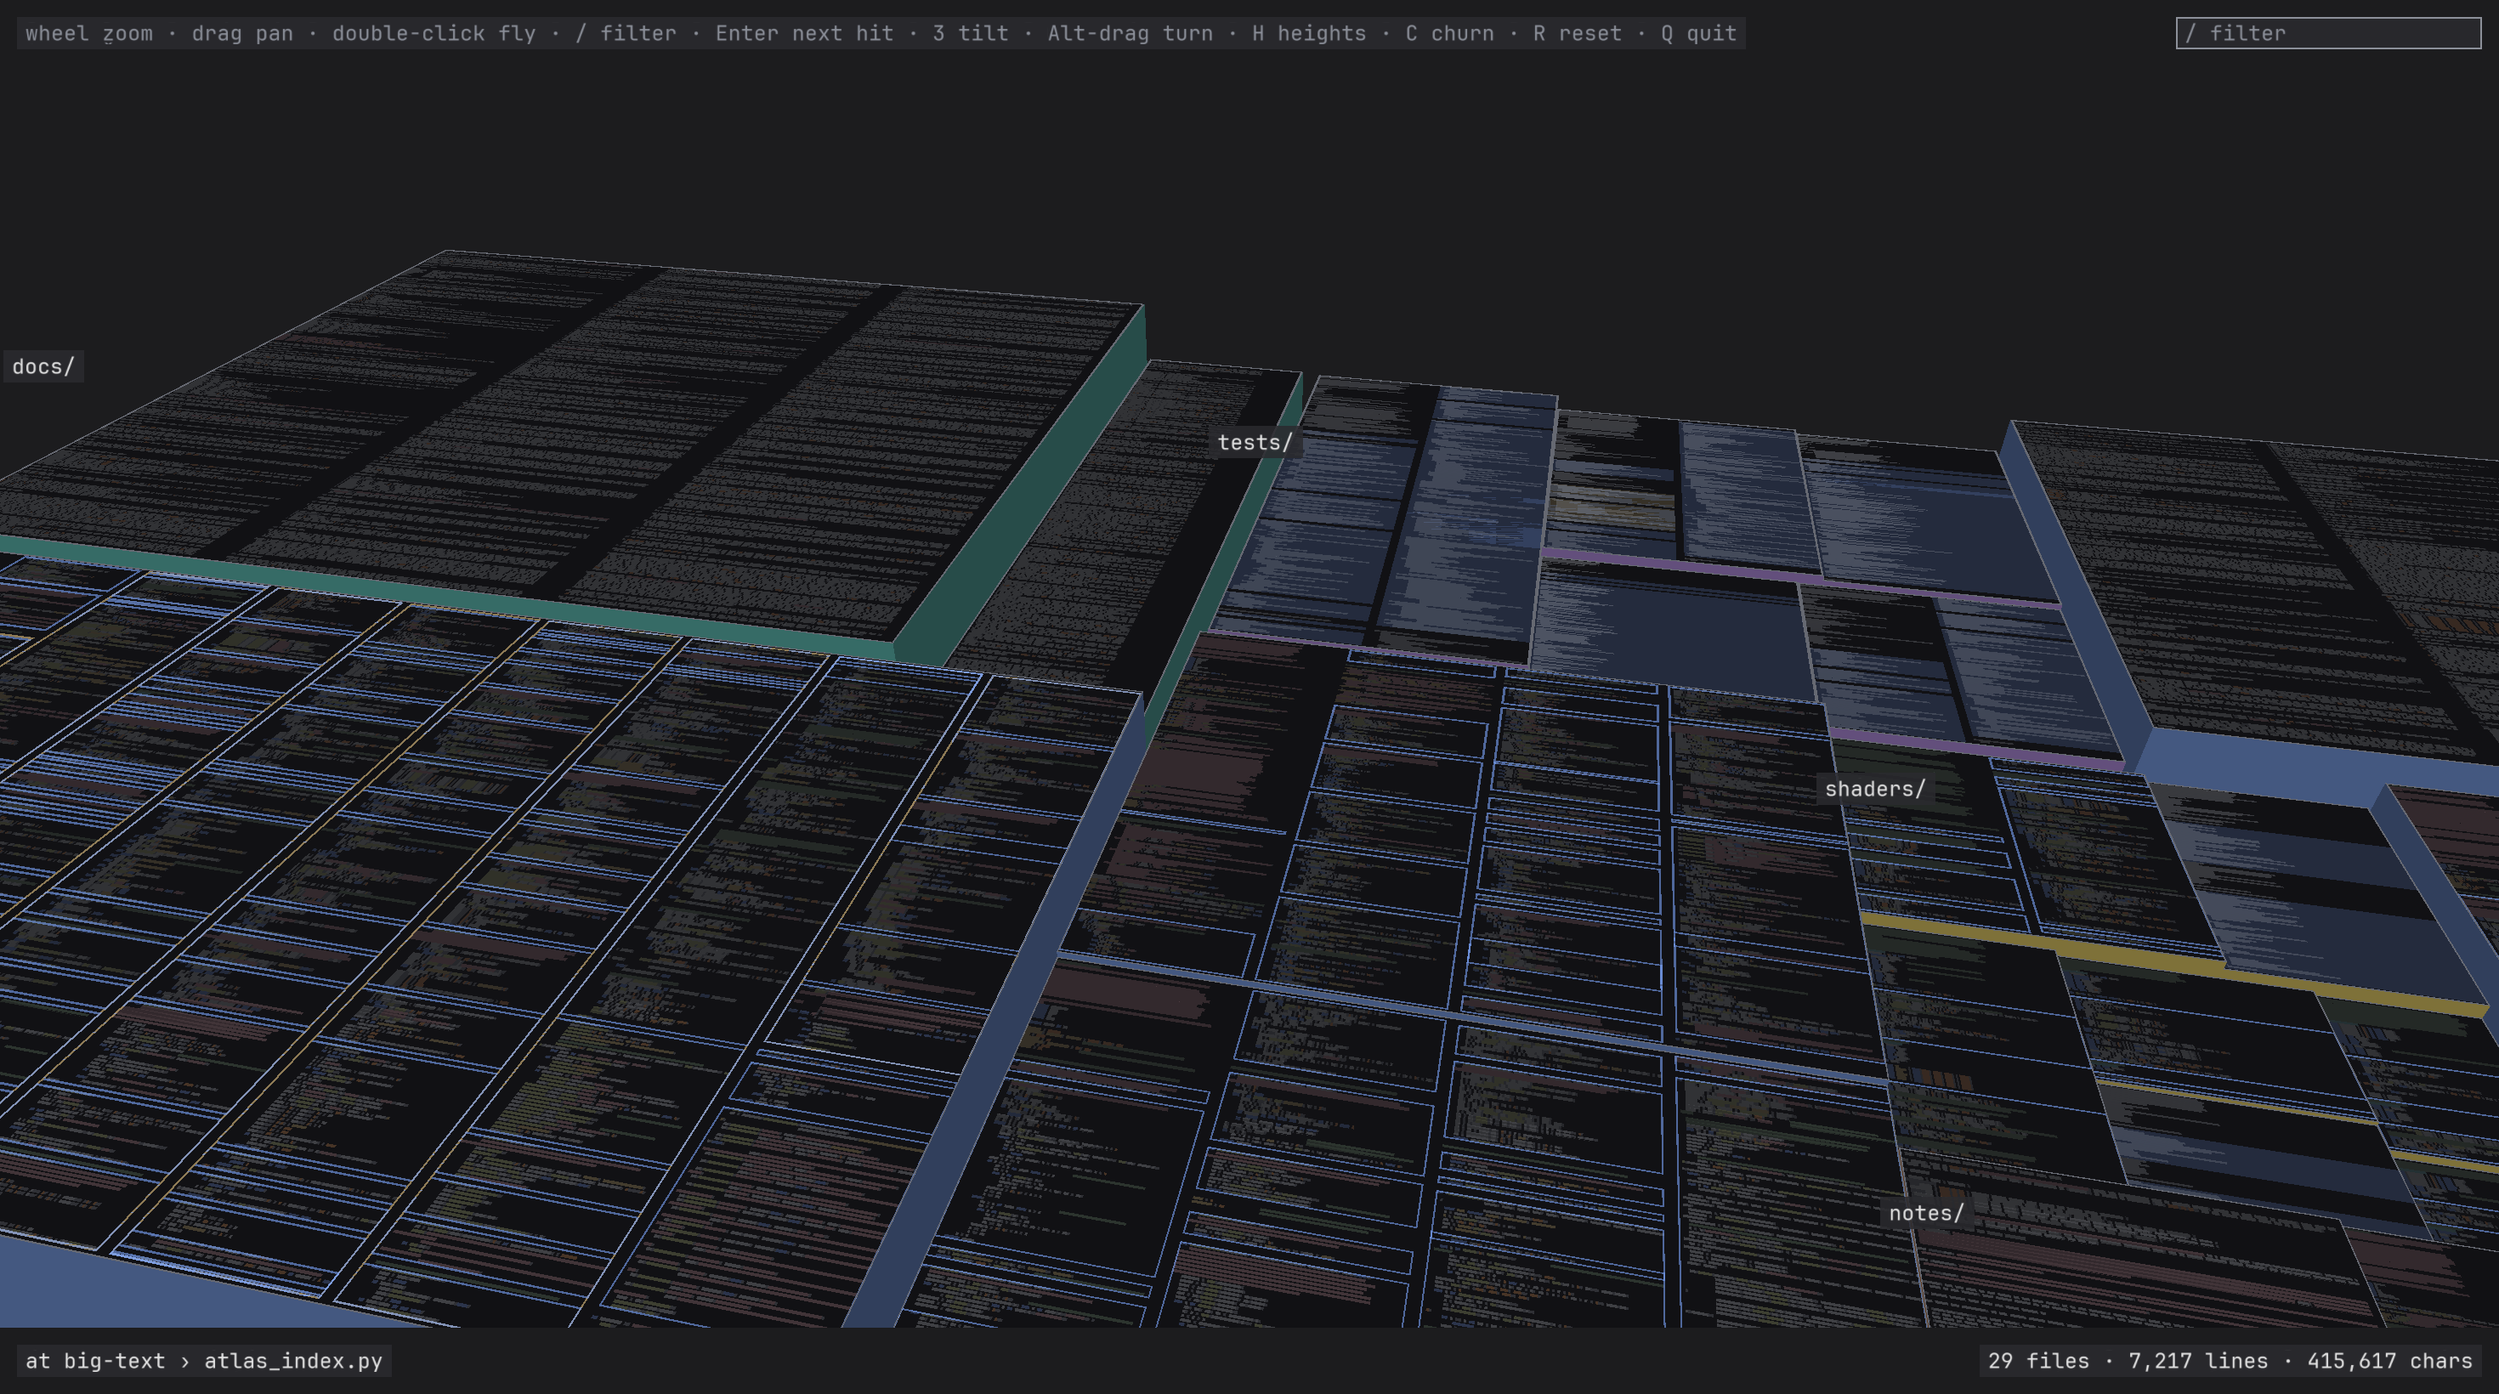
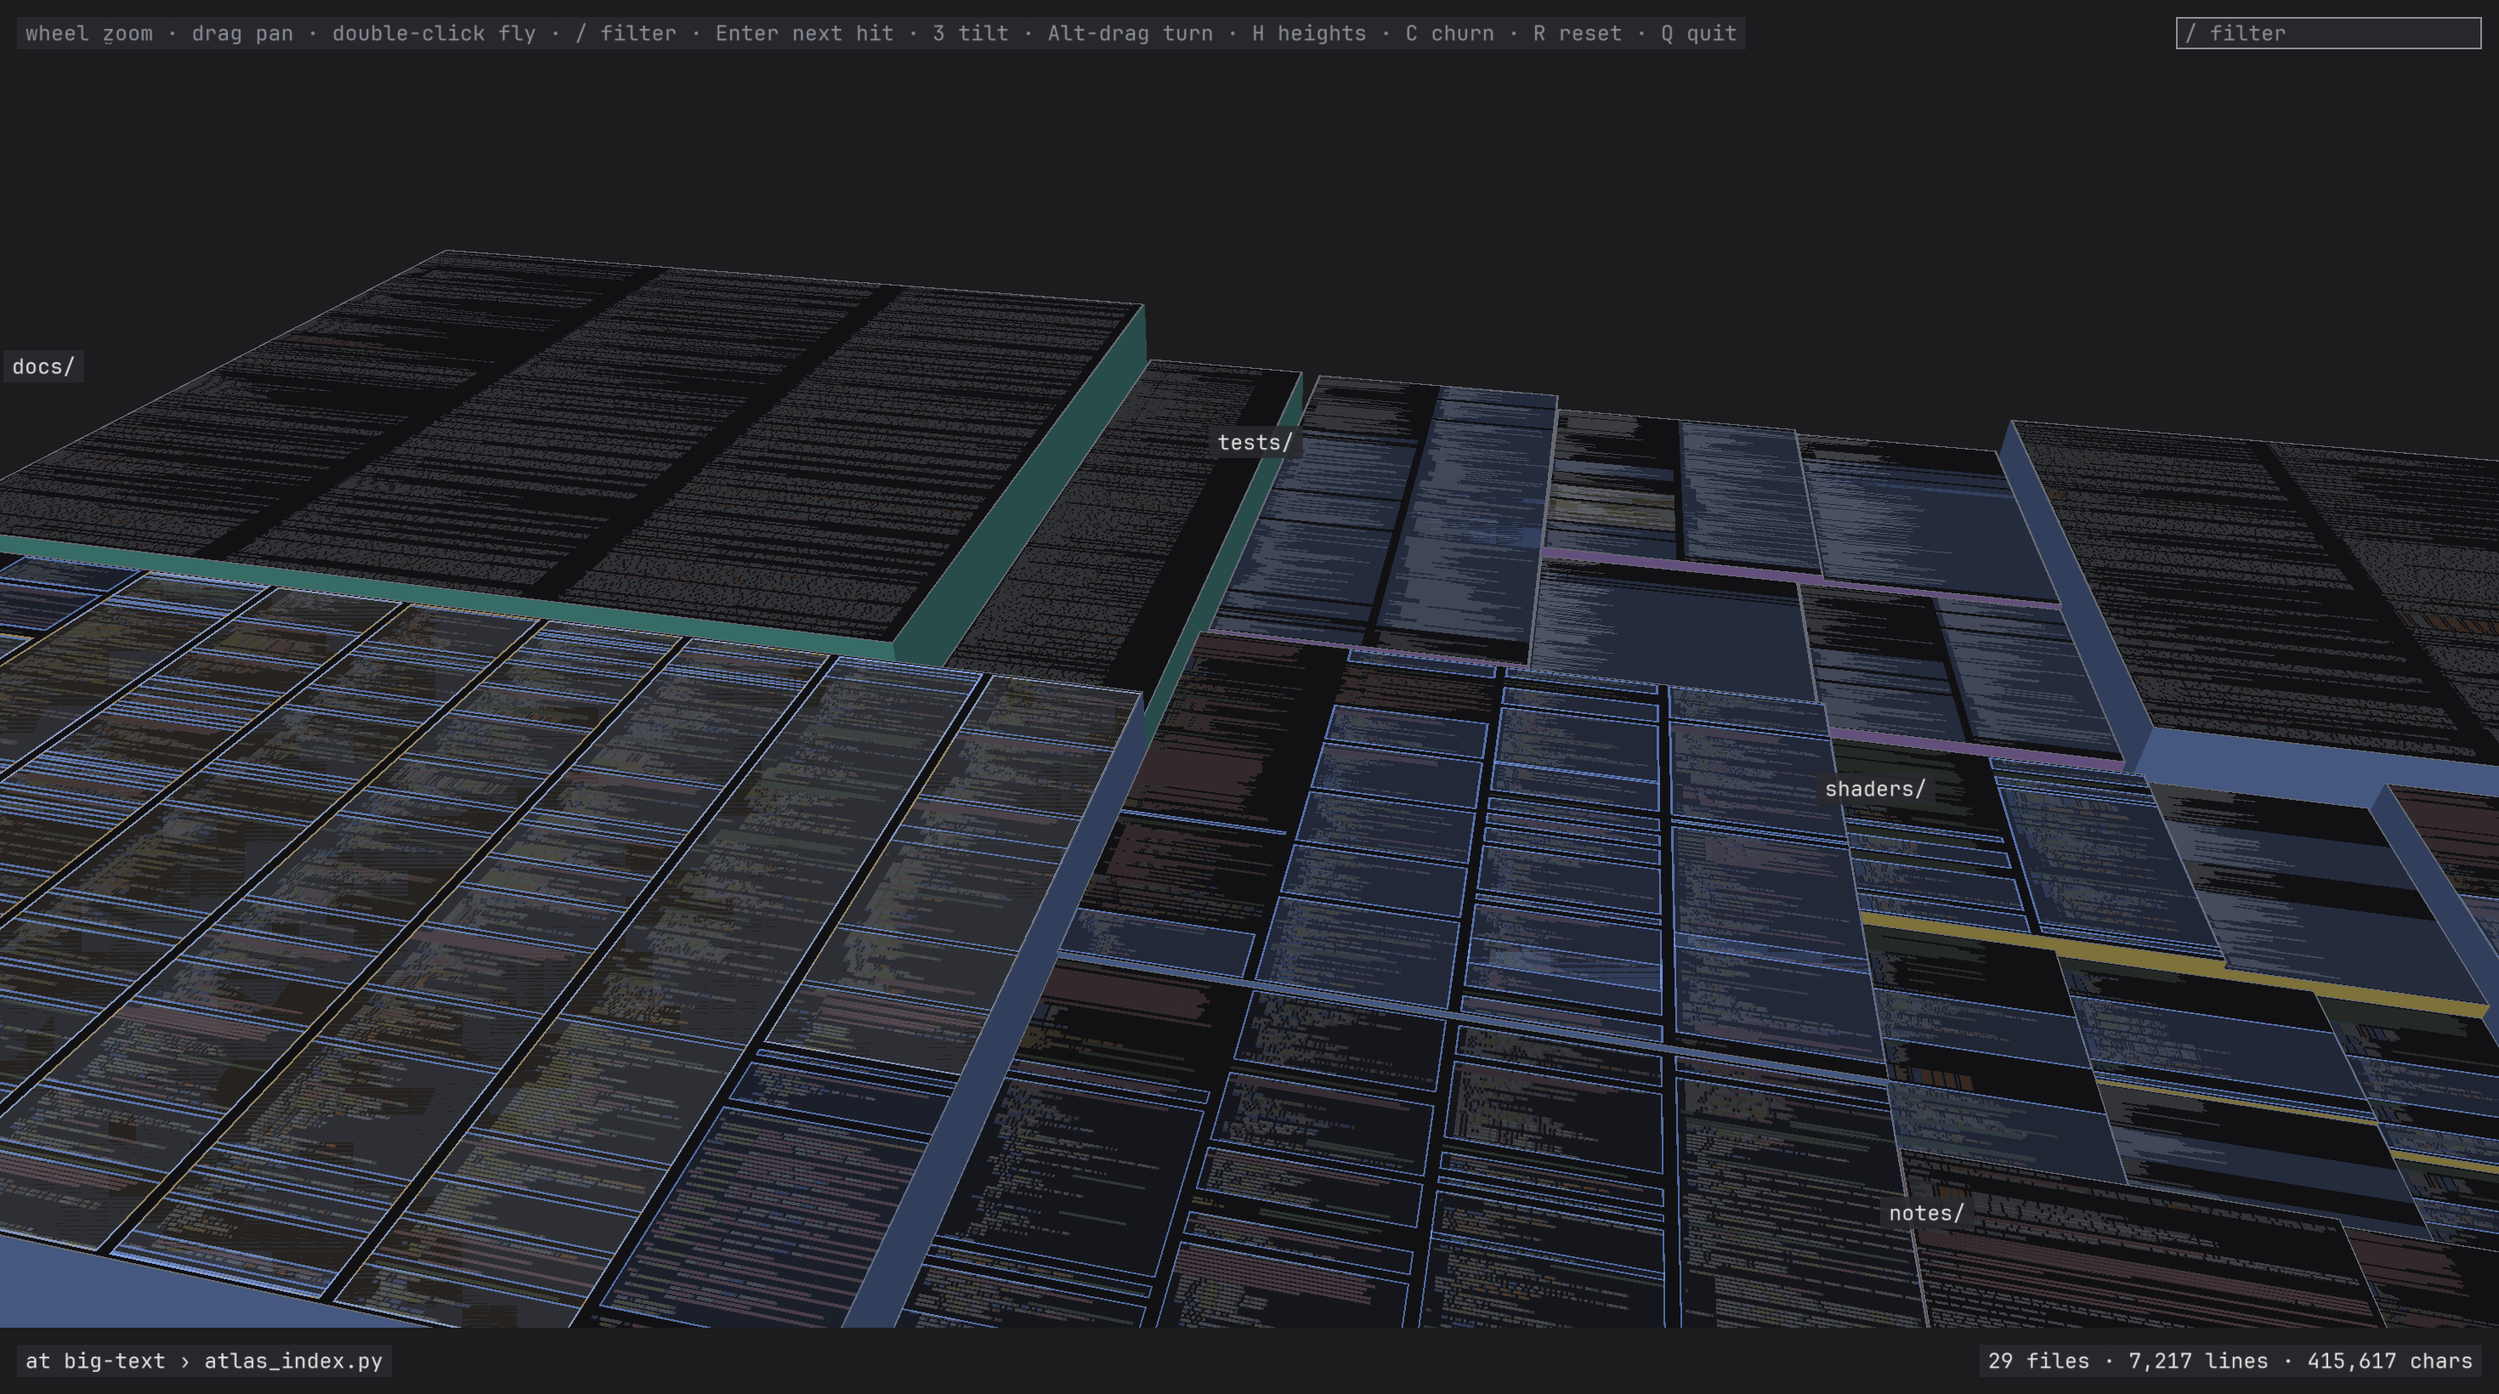
The kind bands fade out across the tokens LOD instead of vanishing at 3 px per line
Fills far, outlines near, and no cut between: the item rectangles stay filled at 18 percent up to 3 pixels per line and thin to nothing by 6, while the outlines come in at 3, so a file's ground no longer jumps from its kind colour to black at the cut.

Changed region(s): [[0.0, 0.4043, 1.0, 0.964], [0.9905, 0.622, 1.0, 0.6841], [0.9905, 0.8707, 1.0, 0.9018]]

diff --git a/atlas_viewer.py b/atlas_viewer.py
@@ -1556,6 +1556,7 @@ class Viewer:
             self.file_scale = np.ones(self.n_files)
             self.dir_scale = np.ones(self.n_dirs)
         ppl = a["file_pitch"] * self.zoom * self.file_scale
+        self.ppl = ppl
         self.lod = ((ppl >= 1).astype(np.uint8) + (ppl >= 3) + (ppl >= 6)).astype(np.uint8)
         flags = np.zeros(self.n_files, np.uint8)
         cur = self.cursor_override if self.scripted else self.cursor
@@ -1668,12 +1669,13 @@ class Viewer:
         return inst, n * cw
 
     def band_instances(self):
-        """The kind bands: below 3 px per line the item rectangles of visible
-        files are filled bands in the item kind colour, under the sampled
-        bars and the line bars alike so nothing flips at the 1 px cut; from
-        3 px the outlines take over (fills far, outlines near)."""
+        """The kind bands: the item rectangles of visible files are filled
+        bands in the item kind colour, under the sampled bars and the line
+        bars alike so nothing flips at the 1 px cut, at 18 percent up to 3 px
+        per line and fading to nothing by 6, where the outlines, drawn from
+        3, have taken over (fills far, outlines near, and no cut between)."""
         a = self.a
-        m = (self.visible & (self.lod <= 1))[self.item_rect_file]
+        m = (self.visible & (self.lod <= 2))[self.item_rect_file]
         if not m.any():
             return np.zeros((0, 10), np.float32)
         rects = a["item_rect"][m]
@@ -1685,7 +1687,7 @@ class Viewer:
         inst[(kinds < 1) | (kinds > 5), 4:7] = self.item_colors[5]
         inst[:, 7] = 1.0
         inst[:, 8] = 0.0
-        inst[:, 9] = 0.18
+        inst[:, 9] = 0.18 * np.clip((6.0 - self.ppl[self.item_rect_file[m]]) / 3.0, 0.0, 1.0)
         inst[:, 10] = self.file_top[self.item_rect_file[m]] + 0.02
         return inst
 

diff --git a/docs/DESIGN.md b/docs/DESIGN.md
@@ -110,10 +110,10 @@ Per frame, in numpy over files: pixels per line `ppl = file_pitch * zoom`, fores
 |---|---|---|
 | 0 sampled bars | under 1 | every step-th row as a grey bar exactly one pixel tall at its own depth, from indent to length, so the density stays about one bar per pixel row; the kind bands beneath |
 | 1 line bars | 1 to 3 | one grey bar per row from indent to length; the kind bands beneath. A bar or block stands 0.7 of its row tall, but the gap is carved only once it is a pixel and a half; thinner, the bar fills the row and carries the gap in its alpha, the same mean ink, so nothing shimmers as the gap crosses pixel rows |
-| 2 tokens | 3 to 6 | one block per character in its kind colour; item outlines |
+| 2 tokens | 3 to 6 | one block per character in its kind colour; item outlines, the kind bands fading out beneath them |
 | 3 text | 6 and up | glyphs in the kind colour, from the raster atlas below 12 px per line and from the vector tier above; item outlines |
 
-A proportional face draws the tokens and text LODs with `glyph.glsl` instead, one instanced quad per character of each run of visible files, placed at its row's position plus its x and sized by its advance from a 96-entry uniform, the same LODs' fragment code applied per glyph, the raster cell sampled over the glyph's own advance; `line.glsl` then keeps LODs 0 and 1. The kind bands are the item rectangles of LOD 0 and 1 files filled in the item kind colour at 18 percent (fills far, outlines near); at LODs 2 and 3 the same rectangles are 1.5 pixel outlines. Every LOD draws the file background `#111114` under the lines, so nothing flips colour at a cut; the hue lives only in the directory bands. The border is one grey pixel, two yellow for a hit file, three for the current hit's file, computed in the fragment shader from the world distance to the edge and `fwidth` so it holds in perspective, and drawn twice: with the fill before the lines and as a ring after them, so column-0 text never breaks a hit outline. The hovered file gets the light border and no fill, so its text stays readable. The tint, when on (`C`, `--tint`), mixes the fill towards ember by the file's value; bars and glyphs are untouched, and the status line shows the label. The bars' alpha eases with pixels per line from the scheme's far ink at one to its near ink at three, and the blocks take its block ink. A scheme that names no ink, code's, is measured by the viewer at load with `atlas_font.mean_ink` over the corpus's characters: the blocks at the text's ink over the 0.7 of a row they stand tall (0.245 for JetBrains Mono over emscripten), the near bars a quarter above that, the far bars at 0.55 for the die shot. The book's are measured at index time by the same function, the mean coverage of a glyph's advance box in the face's atlas averaged over the book's letter frequencies (15.6 percent for Literata), divided by the 0.7 of a row that bars and blocks stand tall, the bars' scaled by the share of characters that are not spaces since bars span them, so each level has the mean ink of the text it replaces and nothing steps at a cut, whatever the face. The ground, page, bar, kind and item colours are the scheme's, uniforms set once at start; the UI boxes, the hues and the yellow of the hits are the viewer's own. Dimmed files (no hits while a filter is active) darken their fill by half and their bars and glyphs to 45 percent.
+A proportional face draws the tokens and text LODs with `glyph.glsl` instead, one instanced quad per character of each run of visible files, placed at its row's position plus its x and sized by its advance from a 96-entry uniform, the same LODs' fragment code applied per glyph, the raster cell sampled over the glyph's own advance; `line.glsl` then keeps LODs 0 and 1. The kind bands are the item rectangles filled in the item kind colour, 18 percent up to 3 pixels per line and fading to nothing by 6 (fills far, outlines near, and no cut between); from LOD 2 the same rectangles are also 1.5 pixel outlines. Every LOD draws the file background `#111114` under the lines, so nothing flips colour at a cut; the hue lives only in the directory bands. The border is one grey pixel, two yellow for a hit file, three for the current hit's file, computed in the fragment shader from the world distance to the edge and `fwidth` so it holds in perspective, and drawn twice: with the fill before the lines and as a ring after them, so column-0 text never breaks a hit outline. The hovered file gets the light border and no fill, so its text stays readable. The tint, when on (`C`, `--tint`), mixes the fill towards ember by the file's value; bars and glyphs are untouched, and the status line shows the label. The bars' alpha eases with pixels per line from the scheme's far ink at one to its near ink at three, and the blocks take its block ink. A scheme that names no ink, code's, is measured by the viewer at load with `atlas_font.mean_ink` over the corpus's characters: the blocks at the text's ink over the 0.7 of a row they stand tall (0.245 for JetBrains Mono over emscripten), the near bars a quarter above that, the far bars at 0.55 for the die shot. The book's are measured at index time by the same function, the mean coverage of a glyph's advance box in the face's atlas averaged over the book's letter frequencies (15.6 percent for Literata), divided by the 0.7 of a row that bars and blocks stand tall, the bars' scaled by the share of characters that are not spaces since bars span them, so each level has the mean ink of the text it replaces and nothing steps at a cut, whatever the face. The ground, page, bar, kind and item colours are the scheme's, uniforms set once at start; the UI boxes, the hues and the yellow of the hits are the viewer's own. Dimmed files (no hits while a filter is active) darken their fill by half and their bars and glyphs to 45 percent.
 
 ### Glyphs
 

diff --git a/README.md b/README.md
@@ -214,7 +214,7 @@ How each stage is built is in [docs/DESIGN.md](docs/DESIGN.md). The short versio
 - **Proportional text.** When the face's advances differ, the layout measures every line in line heights by summing its glyphs' advances, sizes columns and wraps by width, and writes each glyph's x within its row (`char_x`) and each row's width; the viewer then draws the tokens and text LODs with one instanced quad per glyph (`shaders/glyph.glsl`) placed by that x and sized by its advance, from the same raster atlas and vector tier, and finds the glyph under the cursor or a hit by the same offsets. A scheme may ask for set type: a line with more of its paragraph after it is stretched to the margin by widening its word gaps evenly, in those same x's, and for a leading, the line box stretched over the ink extents so a book has air between its lines (1.3 for the book). Bars, and every LOD of a monospace corpus, keep the per-line draw. Code stays on the monospace grid.
 - **The tint.** In a git checkout the index step runs one `git log --numstat` over the indexed directories (20 seconds for emscripten's 30,274 commits, under a second for big-text's), sums each file's lines added and removed, a rename counting as a removal and an addition, and writes the sums on a log scale to 0..1 as the tint, labelled `churn`. The viewer knows only that a leaf has a number in 0..1 and a label: it maps the number to ember over the file fill and shows the label in the status line. A book writes no tint.
 - **Layout.** `atlas_layout.py` is a squarified treemap over the directory tree with padding per level, sized to about two lines of the directory's own text, which the viewer draws as the directory band: a few pixels wide at most, so the bands stay thin at every zoom, a hairline at the fit and a gutter of two lines once the text is legible. Each file's area is its weight, tokens for code. Each file is wrapped into as many equal columns as keep a 90th-percentile line width readable; lines longer than a column wrap inside it, continuation rows hanging in by two characters. `tests/check_layout.py` checks the invariants. A book skips the treemap: one grid of pages in reading order, every page one cell of the size that lets one column hold the book's line width inside the page's margins, in a gutter, so 58 pages across for War and Peace, and every page pitched as a full page so a short last page keeps its chapter's text size; `--book-layout parts` gives every part its own band of page rows instead.
-- **The levels of detail.** Per frame the viewer computes device pixels per line for every file and picks a LOD: under 1, sampled one-pixel bars; 1 to 3, one grey bar per line from indent to length, with items as filled bands in their kind colour beneath; 3 to 6, one block per character in its kind colour plus item outlines; 6 and up, glyphs. The switches are hard cuts, as in the video. Everything is resident: characters and kinds as 8-bit textures, lines and files as float and integer textures, one instanced quad per line drawn per run of visible files.
+- **The levels of detail.** Per frame the viewer computes device pixels per line for every file and picks a LOD: under 1, sampled one-pixel bars; 1 to 3, one grey bar per line from indent to length, with items as filled bands in their kind colour beneath; 3 to 6, one block per character in its kind colour plus item outlines, the kind bands fading out beneath them; 6 and up, glyphs. The switches are hard cuts, as in the video. Everything is resident: characters and kinds as 8-bit textures, lines and files as float and integer textures, one instanced quad per line drawn per run of visible files.
 - **Glyphs.** `atlas_font.py` rasterises the 224 glyphs of Windows-1252, bytes 32 to 255, of a face into a mipmapped atlas; the line box is the face's ASCII ink extents rather than its OS/2 box, so a change of face does not change the proportions of the layout. A proportional face gets cells as wide as its widest glyph, each glyph drawn from the left, and its advances travel with the atlas; the UI always draws from the bundled monospace face's atlas. `vt_glyphs.py` builds the vector tier's data in Slug's form: quadratic outlines from fontTools as float32 control points in a curve texture, and per glyph horizontal and vertical bands over its ink box, each listing the curves that cross it sorted for the shader's early exit. `shaders/vt_glyph.glsl` is a GLSL translation of the reference pixel shader: the sign-bit root rule, two axis rays with a box filter, the weighted combination.
 - **Filter.** A whole-word regex over the corpus in a thread, chunked so the frame loop keeps running, with mentions inside comments and strings excluded. The panel lists the hits by file with the line each sits on, the status line counts hits and files, and stepping flies from one to the next.
 - **Fly-to** is van Wijk and Nuij's smooth zoom-and-pan, which zooms out and back in between distant places. Stepping through hits, clicking a hit and double-clicking a rectangle all use it; the double click remembers the view it left, and a second double click at the extents returns there.
